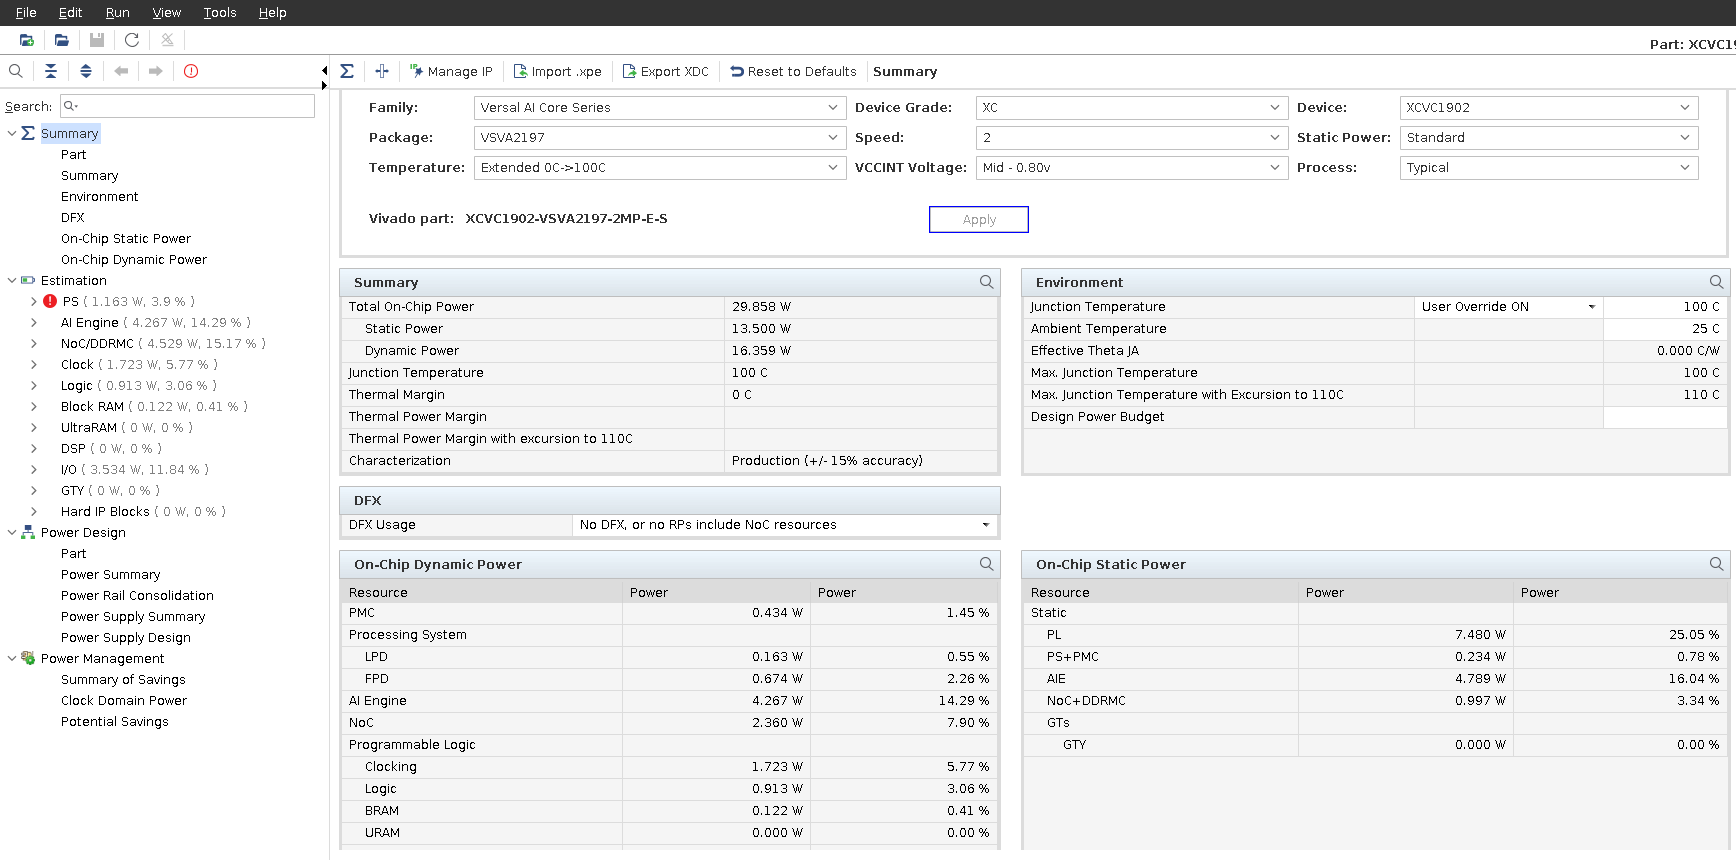
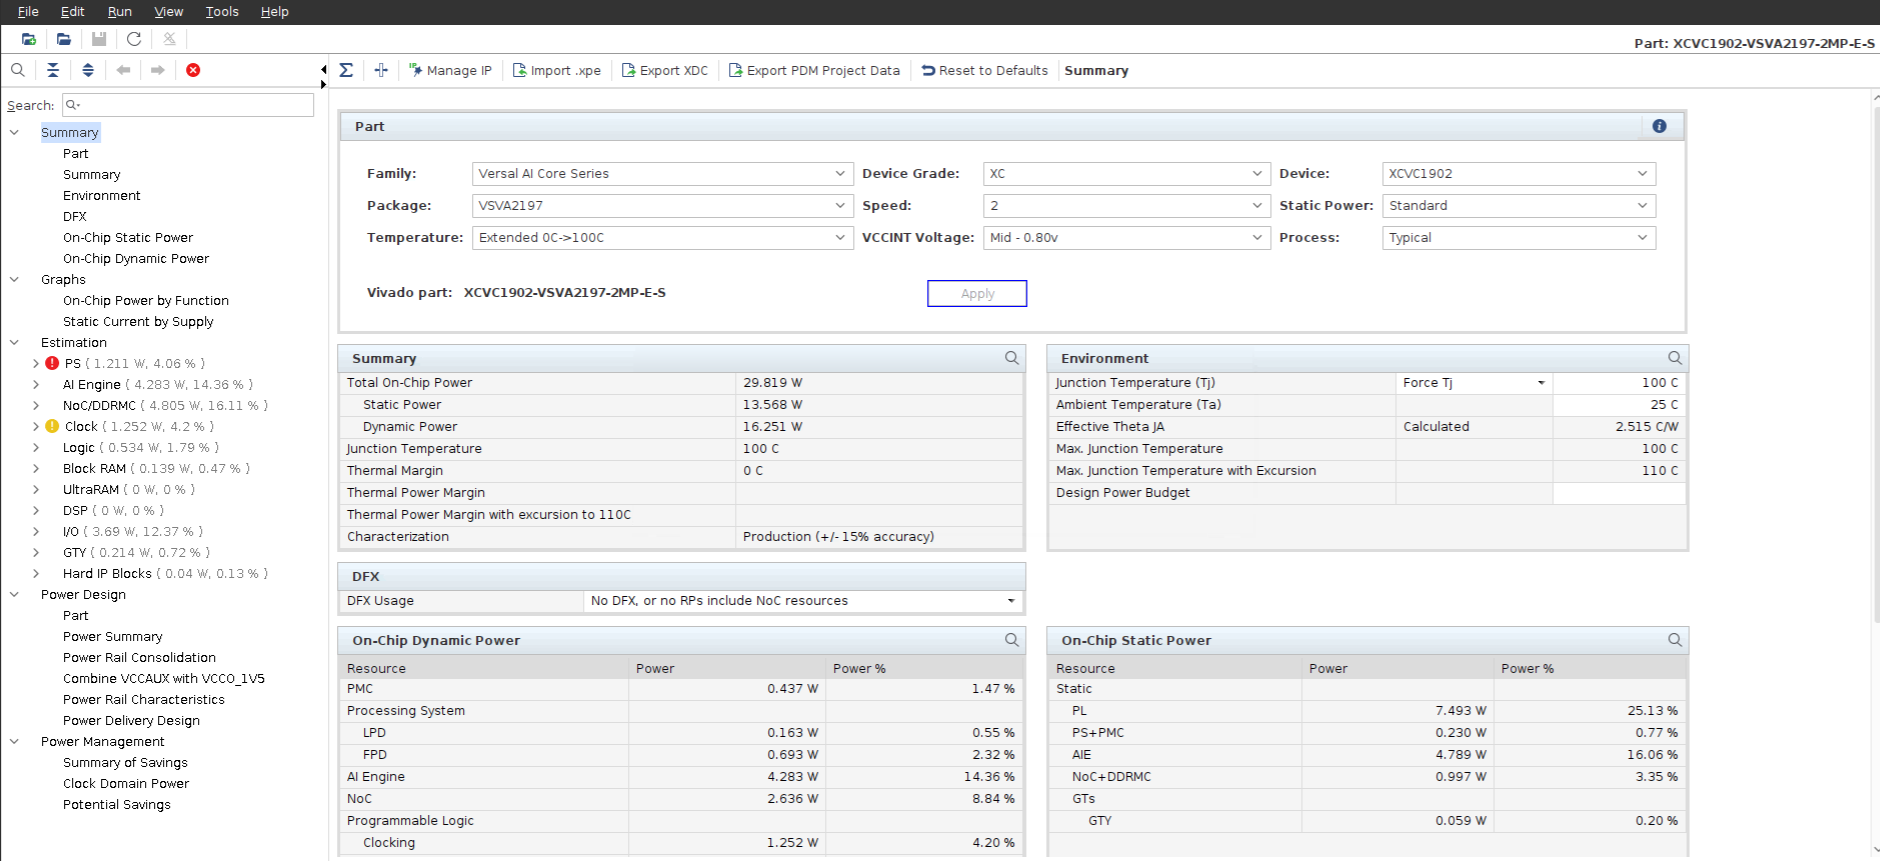
AIE/D/04-Channelizer: Upgrade Power estimation section

diff --git a/AI_Engine_Development/AIE/Design_Tutorials/04-Polyphase-Channelizer/README.md b/AI_Engine_Development/AIE/Design_Tutorials/04-Polyphase-Channelizer/README.md
@@ -294,11 +294,11 @@ The following table shows a comparison between power estimates in compilation ve
   <tr>
     <td>PL</td>
     <td>7.5</td>
-    <td>2.8</td>
-    <td>10.3</td>
+    <td>1.9</td>
+    <td>9.4</td>
     <td>7.5</td>
-    <td>2.8</td>
-    <td>10.3</td>
+    <td>1.9</td>
+    <td>9.4</td>
   </tr>
   <tr>
     <td>AI Engine</td>
@@ -306,8 +306,8 @@ The following table shows a comparison between power estimates in compilation ve
     <td>4.3</td>
     <td>9.1</td>
     <td>4.8</td>
-    <td>4.2</td>
-    <td>9.0</td>
+    <td>1.7</td>
+    <td>6.5</td>
   </tr>
   <tr>
     <td>PS+PMC</td>
@@ -320,21 +320,21 @@ The following table shows a comparison between power estimates in compilation ve
   </tr>
   <tr>
     <td>Everything else (NoC, DDRMC, GTY, etc)</td>
-    <td>1.0</td>
-    <td>8.1</td>
-    <td>9.1</td>
-    <td>1.0</td>
-    <td>8.1</td>
-    <td>9.1</td>
+    <td>1.1</td>
+    <td>8.7</td>
+    <td>9.8</td>
+    <td>1.1</td>
+    <td>8.7</td>
+    <td>9.8</td>
   </tr>
   <tr>
     <td>Total (W)</td>
-    <td>13.5</td>
-    <td>16.4</td>
-    <td>29.9</td>
-    <td>13.5</td>
+    <td>13.6</td>
     <td>16.3</td>
-    <td>29.8</td>
+    <td>29.9</td>
+    <td>13.6</td>
+    <td>13.7</td>
+    <td>27.3</td>
   </tr>
 </table>
 
